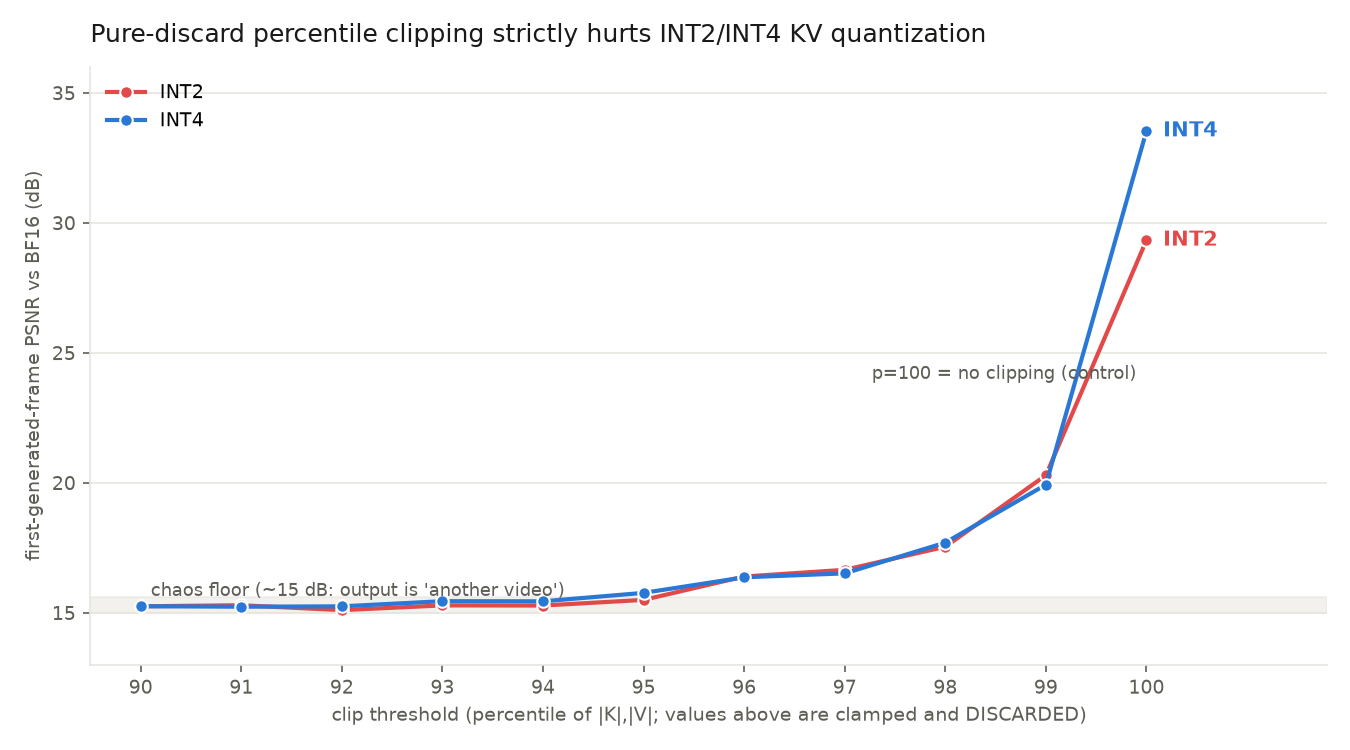
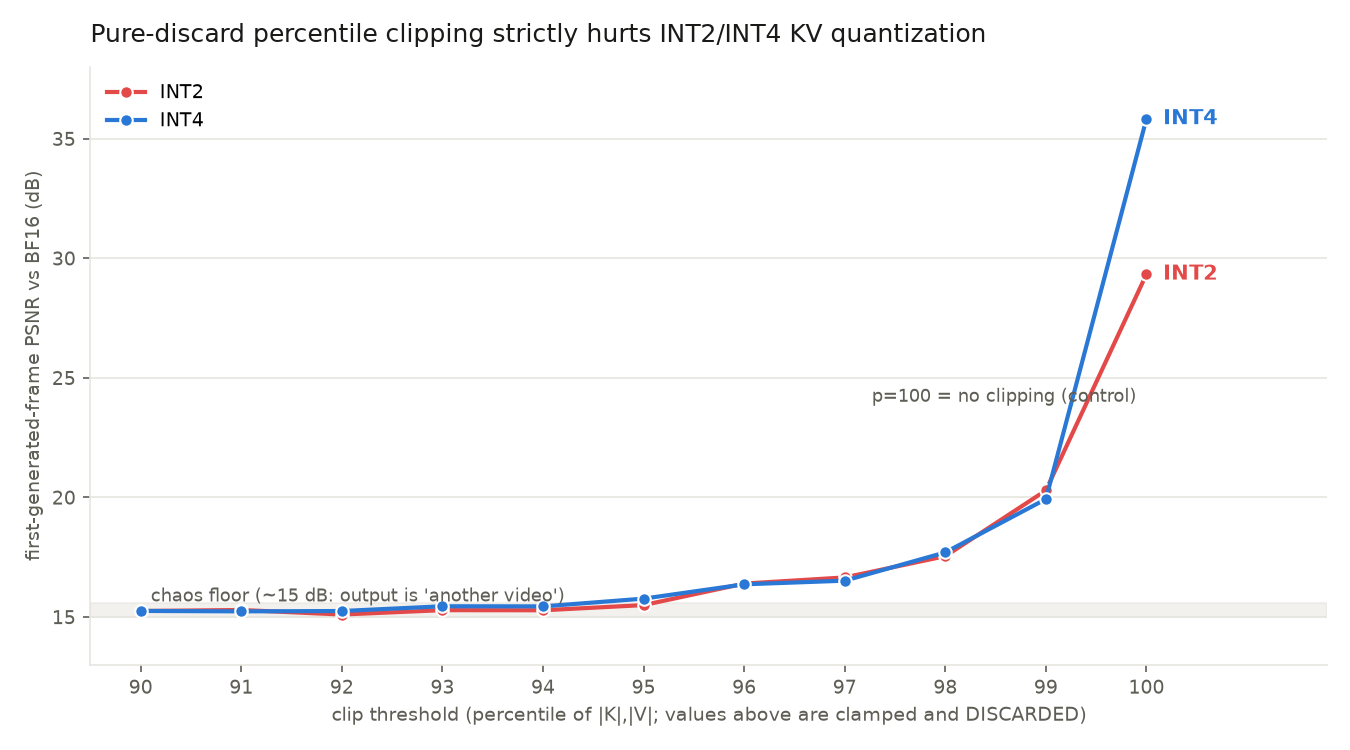
repro: clip study — patch int4 p100 control with rerun measurement (35.84)

diff --git a/repro/CLIP_STUDY.md b/repro/CLIP_STUDY.md
@@ -17,9 +17,9 @@
 | p 分位 | 90 | 91 | 92 | 93 | 94 | 95 | 96 | 97 | 98 | 99 | **100(不裁)** |
 |---|---|---|---|---|---|---|---|---|---|---|---|
 | INT2 | 15.25 | 15.29 | 15.10 | 15.29 | 15.28 | 15.50 | 16.40 | 16.66 | 17.54 | 20.29 | **29.34** |
-| INT4 | 15.25 | 15.24 | 15.25 | 15.45 | 15.44 | 15.77 | 16.37 | 16.52 | 17.70 | 19.93 | **33.5**† |
+| INT4 | 15.25 | 15.24 | 15.25 | 15.45 | 15.44 | 15.77 | 16.37 | 16.52 | 17.70 | 19.93 | **35.84**† |
 
-†INT4 p100 取 RNG 隔离基线值（该对照 pod 首跑 OOM，补跑中；33.54 为此前同配置实测）。
+†INT4 p100 对照补跑实测 35.84；早前同配置 rngiso run 为 33.54——±2 dB 波动源于 Triton atomic_add 质心更新的非确定性（EXPERIMENTS §4 已记录），扫描内部（同批 launcher）自洽。
 
 三个读数：
 1. **单调有害，无内部峰值**：PSNR 在 p=100 处最大。哪怕只裁 1%（p99），INT2 也损失 **9 dB**（20.3 vs 29.3）；p≤95 后砸穿到 ~15 dB 的混沌地板（输出已是"另一个视频"）。